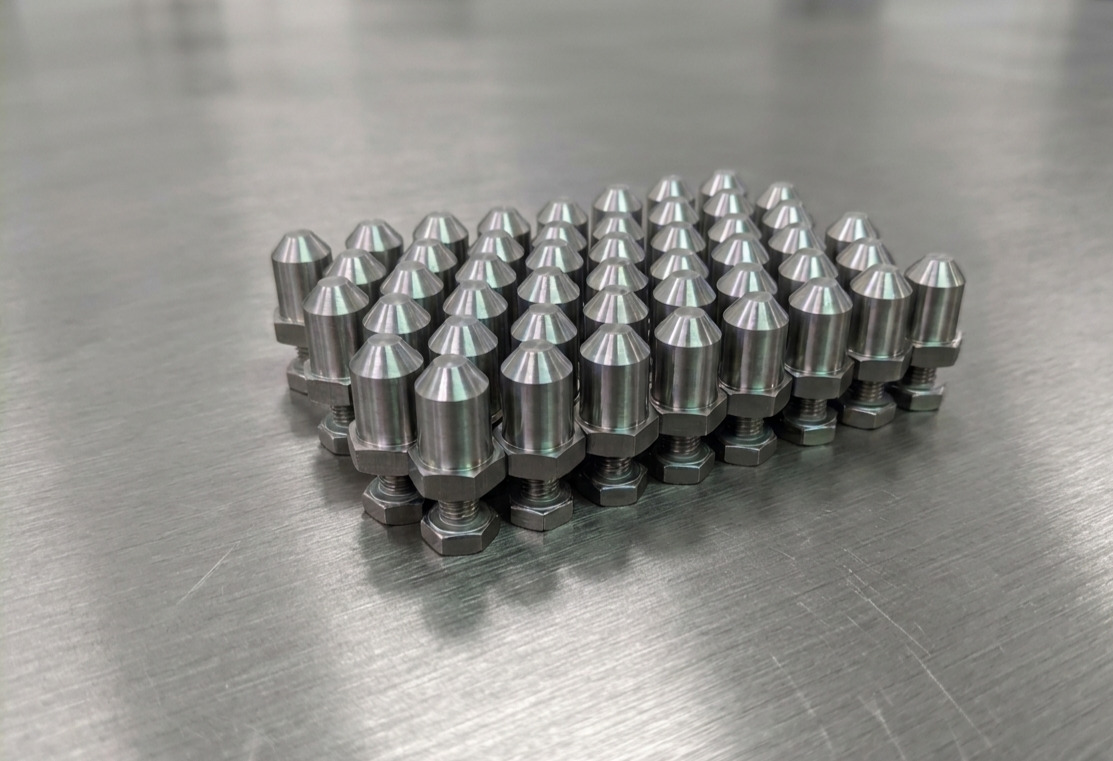
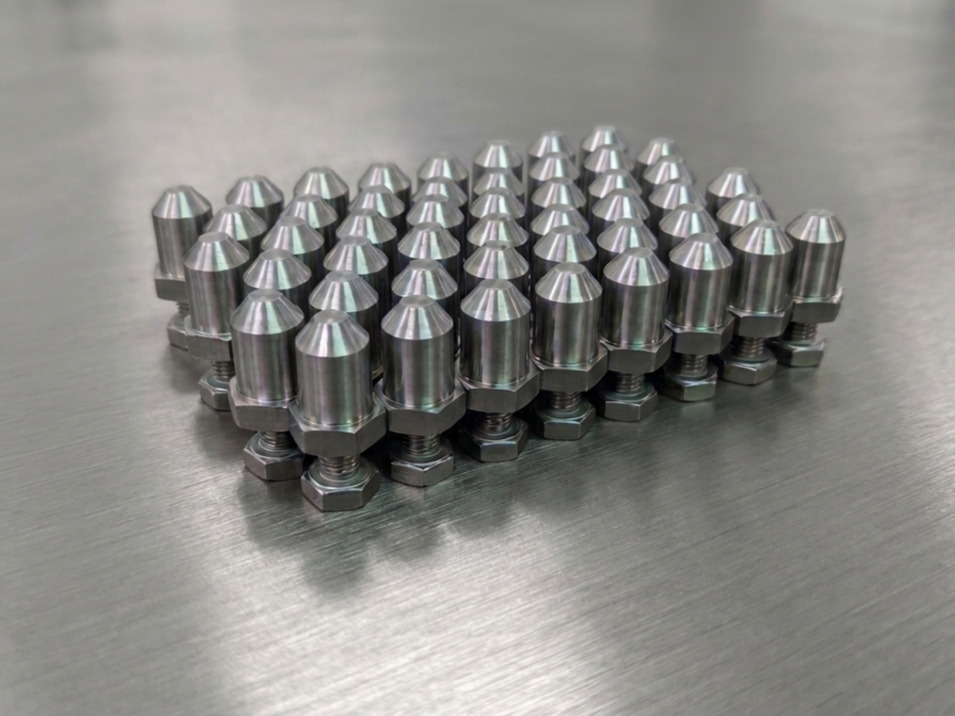
Changed hero section image and button action

diff --git a/src/components/Hero.tsx b/src/components/Hero.tsx
@@ -1,4 +1,4 @@
-import type { FC } from "react";
+import type { FC, MouseEvent } from "react";
 import "./hero.css";
 import Button from "./Button";
 import heroImg from "../assets/images/hero.jpeg";
@@ -15,7 +15,15 @@ const Hero: FC = () => {
         <p>
           Bez preciznosti nema kvaliteta. <br />
           Bez kvaliteta nema poverenja.
-          <Button variant="underlined" text="Naše mogućnosti" />
+          <Button
+            variant="underlined"
+            text="Naše mogućnosti"
+            action={() => {
+              document
+                .querySelector("section#services")
+                ?.scrollIntoView({ behavior: "smooth" });
+            }}
+          />
         </p>
       </div>
       <div>

diff --git a/src/components/hero.css b/src/components/hero.css
@@ -69,7 +69,7 @@ section#hero > div:nth-of-type(2) > img {
   width: 100%;
   height: 100%;
   object-fit: cover;
-  object-position: 70%;
+  object-position: 50%;
 }
 
 @media screen and (min-width: 1024px) {
